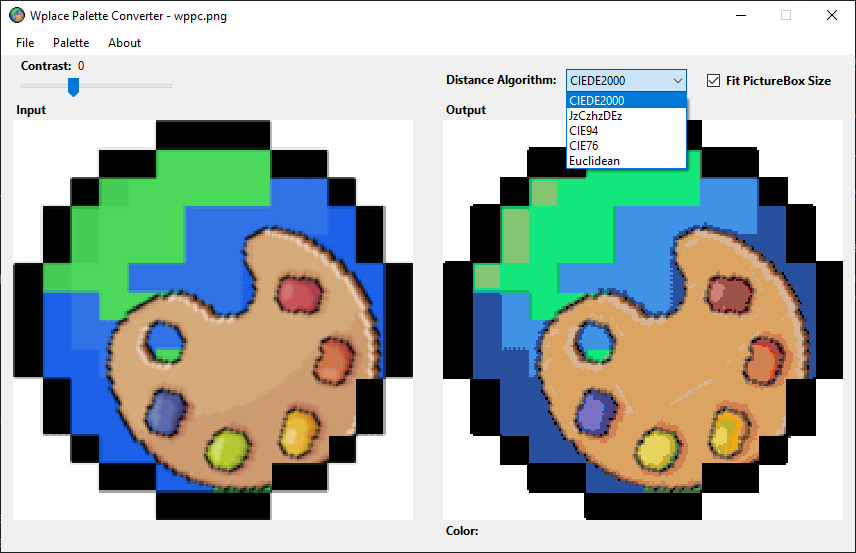
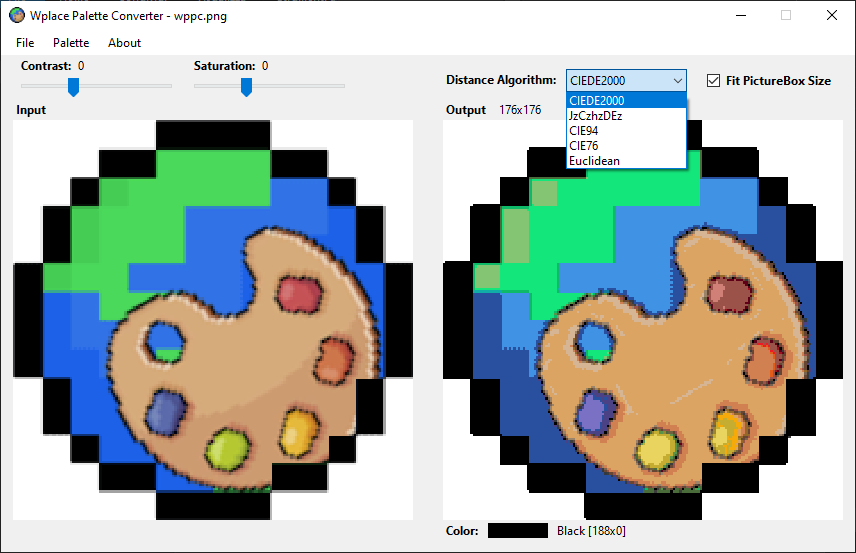
1.0.2 - Optimized color conversion (FlameHorizon) - Added display of image size - Added option to adjust saturation - Added mouse coordinates display when hovering over the output image - Fixed issue that caused incorrect saving of palette usage preferences

Changed region(s): [[0.5467, 0.9222, 0.729, 0.9837], [0.2126, 0.0922, 0.3037, 0.1844], [0.5771, 0.1844, 0.6379, 0.2152]]

diff --git a/src/Wplace Palette Converter/Views/About.Designer.cs b/src/Wplace Palette Converter/Views/About.Designer.cs
@@ -22,140 +22,181 @@ namespace WplacePaletteConverter.Views
 			base.Dispose(disposing);
 		}
 
-		#region Windows Form Designer generated code
+        #region Windows Form Designer generated code
 
-		/// <summary>
-		/// Required method for Designer support - do not modify
-		/// the contents of this method with the code editor.
-		/// </summary>
-		private void InitializeComponent()
-		{
-			System.ComponentModel.ComponentResourceManager resources = new System.ComponentModel.ComponentResourceManager(typeof(About));
-			label1 = new System.Windows.Forms.Label();
-			lblVersion = new System.Windows.Forms.Label();
-			label2 = new System.Windows.Forms.Label();
-			lnkGitHub = new System.Windows.Forms.LinkLabel();
-			lnkNewtonsoftJson = new System.Windows.Forms.LinkLabel();
-			label3 = new System.Windows.Forms.Label();
-			lnkColourful = new System.Windows.Forms.LinkLabel();
-			lnkLicense = new System.Windows.Forms.LinkLabel();
-			SuspendLayout();
-			// 
-			// label1
-			// 
-			label1.AutoSize = true;
-			label1.Font = new System.Drawing.Font("Segoe UI", 20F, System.Drawing.FontStyle.Bold);
-			label1.Location = new System.Drawing.Point(12, 9);
-			label1.Margin = new System.Windows.Forms.Padding(3, 0, 0, 10);
-			label1.Name = "label1";
-			label1.Size = new System.Drawing.Size(346, 37);
-			label1.TabIndex = 0;
-			label1.Text = "Wplace Palette Converter";
-			// 
-			// lblVersion
-			// 
-			lblVersion.AutoSize = true;
-			lblVersion.Location = new System.Drawing.Point(358, 31);
-			lblVersion.Margin = new System.Windows.Forms.Padding(0, 0, 3, 0);
-			lblVersion.Name = "lblVersion";
-			lblVersion.Size = new System.Drawing.Size(40, 15);
-			lblVersion.TabIndex = 1;
-			lblVersion.Text = "vX.X.X";
-			// 
-			// label2
-			// 
-			label2.AutoSize = true;
-			label2.Location = new System.Drawing.Point(12, 66);
-			label2.Margin = new System.Windows.Forms.Padding(3, 10, 3, 0);
-			label2.Name = "label2";
-			label2.Size = new System.Drawing.Size(472, 45);
-			label2.TabIndex = 2;
-			label2.Text = "WPPC is a free open source project to convert image colors to the Wplace colors palette.\r\n\r\nMade in C# .NET 8 by Criper98.";
-			// 
-			// lnkGitHub
-			// 
-			lnkGitHub.AutoSize = true;
-			lnkGitHub.Location = new System.Drawing.Point(12, 121);
-			lnkGitHub.Margin = new System.Windows.Forms.Padding(3, 10, 3, 0);
-			lnkGitHub.Name = "lnkGitHub";
-			lnkGitHub.Size = new System.Drawing.Size(45, 15);
-			lnkGitHub.TabIndex = 3;
-			lnkGitHub.TabStop = true;
-			lnkGitHub.Text = "GitHub";
-			lnkGitHub.LinkClicked += lnkGitHub_LinkClicked;
-			// 
-			// lnkNewtonsoftJson
-			// 
-			lnkNewtonsoftJson.AutoSize = true;
-			lnkNewtonsoftJson.Location = new System.Drawing.Point(12, 218);
-			lnkNewtonsoftJson.Margin = new System.Windows.Forms.Padding(3, 10, 3, 0);
-			lnkNewtonsoftJson.Name = "lnkNewtonsoftJson";
-			lnkNewtonsoftJson.Size = new System.Drawing.Size(126, 15);
-			lnkNewtonsoftJson.TabIndex = 4;
-			lnkNewtonsoftJson.TabStop = true;
-			lnkNewtonsoftJson.Text = "Newtonsoft.Json (MIT)";
-			lnkNewtonsoftJson.LinkClicked += lnkNewtonsoftJson_LinkClicked;
-			// 
-			// label3
-			// 
-			label3.AutoSize = true;
-			label3.Location = new System.Drawing.Point(12, 193);
-			label3.Margin = new System.Windows.Forms.Padding(3, 10, 3, 0);
-			label3.Name = "label3";
-			label3.Size = new System.Drawing.Size(246, 15);
-			label3.TabIndex = 5;
-			label3.Text = "WPPC uses the following third-party libraries:";
-			// 
-			// lnkColourful
-			// 
-			lnkColourful.AutoSize = true;
-			lnkColourful.Location = new System.Drawing.Point(12, 243);
-			lnkColourful.Margin = new System.Windows.Forms.Padding(3, 10, 3, 0);
-			lnkColourful.Name = "lnkColourful";
-			lnkColourful.Size = new System.Drawing.Size(88, 15);
-			lnkColourful.TabIndex = 6;
-			lnkColourful.TabStop = true;
-			lnkColourful.Text = "Colourful (MIT)";
-			lnkColourful.LinkClicked += lnkColourful_LinkClicked;
-			// 
-			// lnkLicense
-			// 
-			lnkLicense.AutoSize = true;
-			lnkLicense.Location = new System.Drawing.Point(60, 121);
-			lnkLicense.Margin = new System.Windows.Forms.Padding(0, 10, 3, 0);
-			lnkLicense.Name = "lnkLicense";
-			lnkLicense.Size = new System.Drawing.Size(46, 15);
-			lnkLicense.TabIndex = 7;
-			lnkLicense.TabStop = true;
-			lnkLicense.Text = "License";
-			lnkLicense.LinkClicked += lnkLicense_LinkClicked;
-			// 
-			// About
-			// 
-			AutoScaleDimensions = new System.Drawing.SizeF(96F, 96F);
-			AutoScaleMode = System.Windows.Forms.AutoScaleMode.Dpi;
-			ClientSize = new System.Drawing.Size(494, 281);
-			Controls.Add(lnkLicense);
-			Controls.Add(lnkColourful);
-			Controls.Add(label3);
-			Controls.Add(lnkNewtonsoftJson);
-			Controls.Add(lnkGitHub);
-			Controls.Add(label2);
-			Controls.Add(lblVersion);
-			Controls.Add(label1);
-			FormBorderStyle = System.Windows.Forms.FormBorderStyle.FixedSingle;
-			Icon = (System.Drawing.Icon)resources.GetObject("$this.Icon");
-			MaximizeBox = false;
-			Name = "About";
-			StartPosition = System.Windows.Forms.FormStartPosition.CenterParent;
-			Text = "About";
-			ResumeLayout(false);
-			PerformLayout();
-		}
+        /// <summary>
+        /// Required method for Designer support - do not modify
+        /// the contents of this method with the code editor.
+        /// </summary>
+        private void InitializeComponent()
+        {
+            System.ComponentModel.ComponentResourceManager resources = new System.ComponentModel.ComponentResourceManager(typeof(About));
+            label1 = new System.Windows.Forms.Label();
+            lblVersion = new System.Windows.Forms.Label();
+            label2 = new System.Windows.Forms.Label();
+            lnkGitHub = new System.Windows.Forms.LinkLabel();
+            lnkNewtonsoftJson = new System.Windows.Forms.LinkLabel();
+            label3 = new System.Windows.Forms.Label();
+            lnkColourful = new System.Windows.Forms.LinkLabel();
+            lnkLicense = new System.Windows.Forms.LinkLabel();
+            label4 = new System.Windows.Forms.Label();
+            lnkFlameHorizon = new System.Windows.Forms.LinkLabel();
+            label5 = new System.Windows.Forms.Label();
+            SuspendLayout();
+            // 
+            // label1
+            // 
+            label1.AutoSize = true;
+            label1.Font = new System.Drawing.Font("Segoe UI", 20F, System.Drawing.FontStyle.Bold);
+            label1.Location = new System.Drawing.Point(12, 9);
+            label1.Margin = new System.Windows.Forms.Padding(3, 0, 0, 10);
+            label1.Name = "label1";
+            label1.Size = new System.Drawing.Size(346, 37);
+            label1.TabIndex = 0;
+            label1.Text = "Wplace Palette Converter";
+            // 
+            // lblVersion
+            // 
+            lblVersion.AutoSize = true;
+            lblVersion.Location = new System.Drawing.Point(358, 31);
+            lblVersion.Margin = new System.Windows.Forms.Padding(0, 0, 3, 0);
+            lblVersion.Name = "lblVersion";
+            lblVersion.Size = new System.Drawing.Size(40, 15);
+            lblVersion.TabIndex = 1;
+            lblVersion.Text = "vX.X.X";
+            // 
+            // label2
+            // 
+            label2.AutoSize = true;
+            label2.Location = new System.Drawing.Point(12, 66);
+            label2.Margin = new System.Windows.Forms.Padding(3, 10, 3, 0);
+            label2.Name = "label2";
+            label2.Size = new System.Drawing.Size(472, 45);
+            label2.TabIndex = 2;
+            label2.Text = "WPPC is a free open source project to convert image colors to the Wplace colors palette.\r\n\r\nMade in C# .NET 8 by Criper98.";
+            // 
+            // lnkGitHub
+            // 
+            lnkGitHub.AutoSize = true;
+            lnkGitHub.Location = new System.Drawing.Point(12, 121);
+            lnkGitHub.Margin = new System.Windows.Forms.Padding(3, 10, 3, 0);
+            lnkGitHub.Name = "lnkGitHub";
+            lnkGitHub.Size = new System.Drawing.Size(45, 15);
+            lnkGitHub.TabIndex = 3;
+            lnkGitHub.TabStop = true;
+            lnkGitHub.Text = "GitHub";
+            lnkGitHub.LinkClicked += lnkGitHub_LinkClicked;
+            // 
+            // lnkNewtonsoftJson
+            // 
+            lnkNewtonsoftJson.Anchor = System.Windows.Forms.AnchorStyles.Bottom | System.Windows.Forms.AnchorStyles.Left;
+            lnkNewtonsoftJson.AutoSize = true;
+            lnkNewtonsoftJson.Location = new System.Drawing.Point(12, 293);
+            lnkNewtonsoftJson.Margin = new System.Windows.Forms.Padding(3, 10, 3, 0);
+            lnkNewtonsoftJson.Name = "lnkNewtonsoftJson";
+            lnkNewtonsoftJson.Size = new System.Drawing.Size(126, 15);
+            lnkNewtonsoftJson.TabIndex = 4;
+            lnkNewtonsoftJson.TabStop = true;
+            lnkNewtonsoftJson.Text = "Newtonsoft.Json (MIT)";
+            lnkNewtonsoftJson.LinkClicked += lnkNewtonsoftJson_LinkClicked;
+            // 
+            // label3
+            // 
+            label3.Anchor = System.Windows.Forms.AnchorStyles.Bottom | System.Windows.Forms.AnchorStyles.Left;
+            label3.AutoSize = true;
+            label3.Location = new System.Drawing.Point(12, 268);
+            label3.Margin = new System.Windows.Forms.Padding(3, 10, 3, 0);
+            label3.Name = "label3";
+            label3.Size = new System.Drawing.Size(246, 15);
+            label3.TabIndex = 5;
+            label3.Text = "WPPC uses the following third-party libraries:";
+            // 
+            // lnkColourful
+            // 
+            lnkColourful.Anchor = System.Windows.Forms.AnchorStyles.Bottom | System.Windows.Forms.AnchorStyles.Left;
+            lnkColourful.AutoSize = true;
+            lnkColourful.Location = new System.Drawing.Point(12, 318);
+            lnkColourful.Margin = new System.Windows.Forms.Padding(3, 10, 3, 0);
+            lnkColourful.Name = "lnkColourful";
+            lnkColourful.Size = new System.Drawing.Size(88, 15);
+            lnkColourful.TabIndex = 6;
+            lnkColourful.TabStop = true;
+            lnkColourful.Text = "Colourful (MIT)";
+            lnkColourful.LinkClicked += lnkColourful_LinkClicked;
+            // 
+            // lnkLicense
+            // 
+            lnkLicense.AutoSize = true;
+            lnkLicense.Location = new System.Drawing.Point(60, 121);
+            lnkLicense.Margin = new System.Windows.Forms.Padding(0, 10, 3, 0);
+            lnkLicense.Name = "lnkLicense";
+            lnkLicense.Size = new System.Drawing.Size(46, 15);
+            lnkLicense.TabIndex = 7;
+            lnkLicense.TabStop = true;
+            lnkLicense.Text = "License";
+            lnkLicense.LinkClicked += lnkLicense_LinkClicked;
+            // 
+            // label4
+            // 
+            label4.AutoSize = true;
+            label4.Location = new System.Drawing.Point(12, 176);
+            label4.Margin = new System.Windows.Forms.Padding(3, 40, 3, 0);
+            label4.Name = "label4";
+            label4.Size = new System.Drawing.Size(99, 15);
+            label4.TabIndex = 8;
+            label4.Text = "Special thanks to:";
+            // 
+            // lnkFlameHorizon
+            // 
+            lnkFlameHorizon.AutoSize = true;
+            lnkFlameHorizon.Location = new System.Drawing.Point(12, 201);
+            lnkFlameHorizon.Margin = new System.Windows.Forms.Padding(3, 10, 0, 0);
+            lnkFlameHorizon.Name = "lnkFlameHorizon";
+            lnkFlameHorizon.Size = new System.Drawing.Size(81, 15);
+            lnkFlameHorizon.TabIndex = 9;
+            lnkFlameHorizon.TabStop = true;
+            lnkFlameHorizon.Text = "FlameHorizon";
+            lnkFlameHorizon.LinkClicked += lnkFlameHorizon_LinkClicked;
+            // 
+            // label5
+            // 
+            label5.AutoSize = true;
+            label5.Location = new System.Drawing.Point(93, 201);
+            label5.Margin = new System.Windows.Forms.Padding(0, 10, 3, 0);
+            label5.Name = "label5";
+            label5.Size = new System.Drawing.Size(175, 15);
+            label5.TabIndex = 10;
+            label5.Text = "- Color conversion optimization";
+            // 
+            // About
+            // 
+            AutoScaleDimensions = new System.Drawing.SizeF(96F, 96F);
+            AutoScaleMode = System.Windows.Forms.AutoScaleMode.Dpi;
+            ClientSize = new System.Drawing.Size(494, 356);
+            Controls.Add(label5);
+            Controls.Add(lnkFlameHorizon);
+            Controls.Add(label4);
+            Controls.Add(lnkLicense);
+            Controls.Add(lnkColourful);
+            Controls.Add(label3);
+            Controls.Add(lnkNewtonsoftJson);
+            Controls.Add(lnkGitHub);
+            Controls.Add(label2);
+            Controls.Add(lblVersion);
+            Controls.Add(label1);
+            FormBorderStyle = System.Windows.Forms.FormBorderStyle.FixedSingle;
+            Icon = (System.Drawing.Icon)resources.GetObject("$this.Icon");
+            MaximizeBox = false;
+            Name = "About";
+            StartPosition = System.Windows.Forms.FormStartPosition.CenterParent;
+            Text = "About";
+            ResumeLayout(false);
+            PerformLayout();
+        }
 
-		#endregion
+        #endregion
 
-		private System.Windows.Forms.Label label1;
+        private System.Windows.Forms.Label label1;
 		private System.Windows.Forms.Label lblVersion;
 		private System.Windows.Forms.Label label2;
 		private System.Windows.Forms.LinkLabel lnkGitHub;
@@ -163,5 +204,8 @@ namespace WplacePaletteConverter.Views
 		private System.Windows.Forms.Label label3;
 		private System.Windows.Forms.LinkLabel lnkColourful;
 		private System.Windows.Forms.LinkLabel lnkLicense;
-	}
+        private System.Windows.Forms.Label label4;
+        private System.Windows.Forms.LinkLabel lnkFlameHorizon;
+        private System.Windows.Forms.Label label5;
+    }
 }

diff --git a/src/Wplace Palette Converter/Views/About.cs b/src/Wplace Palette Converter/Views/About.cs
@@ -20,36 +20,37 @@ namespace WplacePaletteConverter.Views
             lblVersion.Text = $"v{Application.ProductVersion}";
         }
 
-        private void lnkGitHub_LinkClicked(object sender, LinkLabelLinkClickedEventArgs e)
+        private void OpenSite(string url)
         {
             System.Diagnostics.Process.Start(
-                new System.Diagnostics.ProcessStartInfo("https://github.com/Criper98/Wplace-Palette-Converter")
+                new System.Diagnostics.ProcessStartInfo(url)
                 { UseShellExecute = true }
             );
+        }
+
+        private void lnkGitHub_LinkClicked(object sender, LinkLabelLinkClickedEventArgs e)
+        {
+            OpenSite("https://github.com/Criper98/Wplace-Palette-Converter");
         }
 
         private void lnkLicense_LinkClicked(object sender, LinkLabelLinkClickedEventArgs e)
         {
-            System.Diagnostics.Process.Start(
-                new System.Diagnostics.ProcessStartInfo("https://raw.githubusercontent.com/Criper98/Wplace-Palette-Converter/refs/heads/main/LICENSE")
-                { UseShellExecute = true }
-            );
+            OpenSite("https://raw.githubusercontent.com/Criper98/Wplace-Palette-Converter/refs/heads/main/LICENSE");
+        }
+
+        private void lnkFlameHorizon_LinkClicked(object sender, LinkLabelLinkClickedEventArgs e)
+        {
+            OpenSite("https://github.com/FlameHorizon");
         }
 
         private void lnkNewtonsoftJson_LinkClicked(object sender, LinkLabelLinkClickedEventArgs e)
         {
-            System.Diagnostics.Process.Start(
-                new System.Diagnostics.ProcessStartInfo("https://raw.githubusercontent.com/JamesNK/Newtonsoft.Json/refs/heads/master/LICENSE.md")
-                { UseShellExecute = true }
-            );
+            OpenSite("https://raw.githubusercontent.com/JamesNK/Newtonsoft.Json/refs/heads/master/LICENSE.md");
         }
 
         private void lnkColourful_LinkClicked(object sender, LinkLabelLinkClickedEventArgs e)
         {
-            System.Diagnostics.Process.Start(
-                new System.Diagnostics.ProcessStartInfo("https://raw.githubusercontent.com/tompazourek/Colourful/refs/heads/master/LICENSE")
-                { UseShellExecute = true }
-            );
+            OpenSite("https://raw.githubusercontent.com/tompazourek/Colourful/refs/heads/master/LICENSE");
         }
     }
 }
